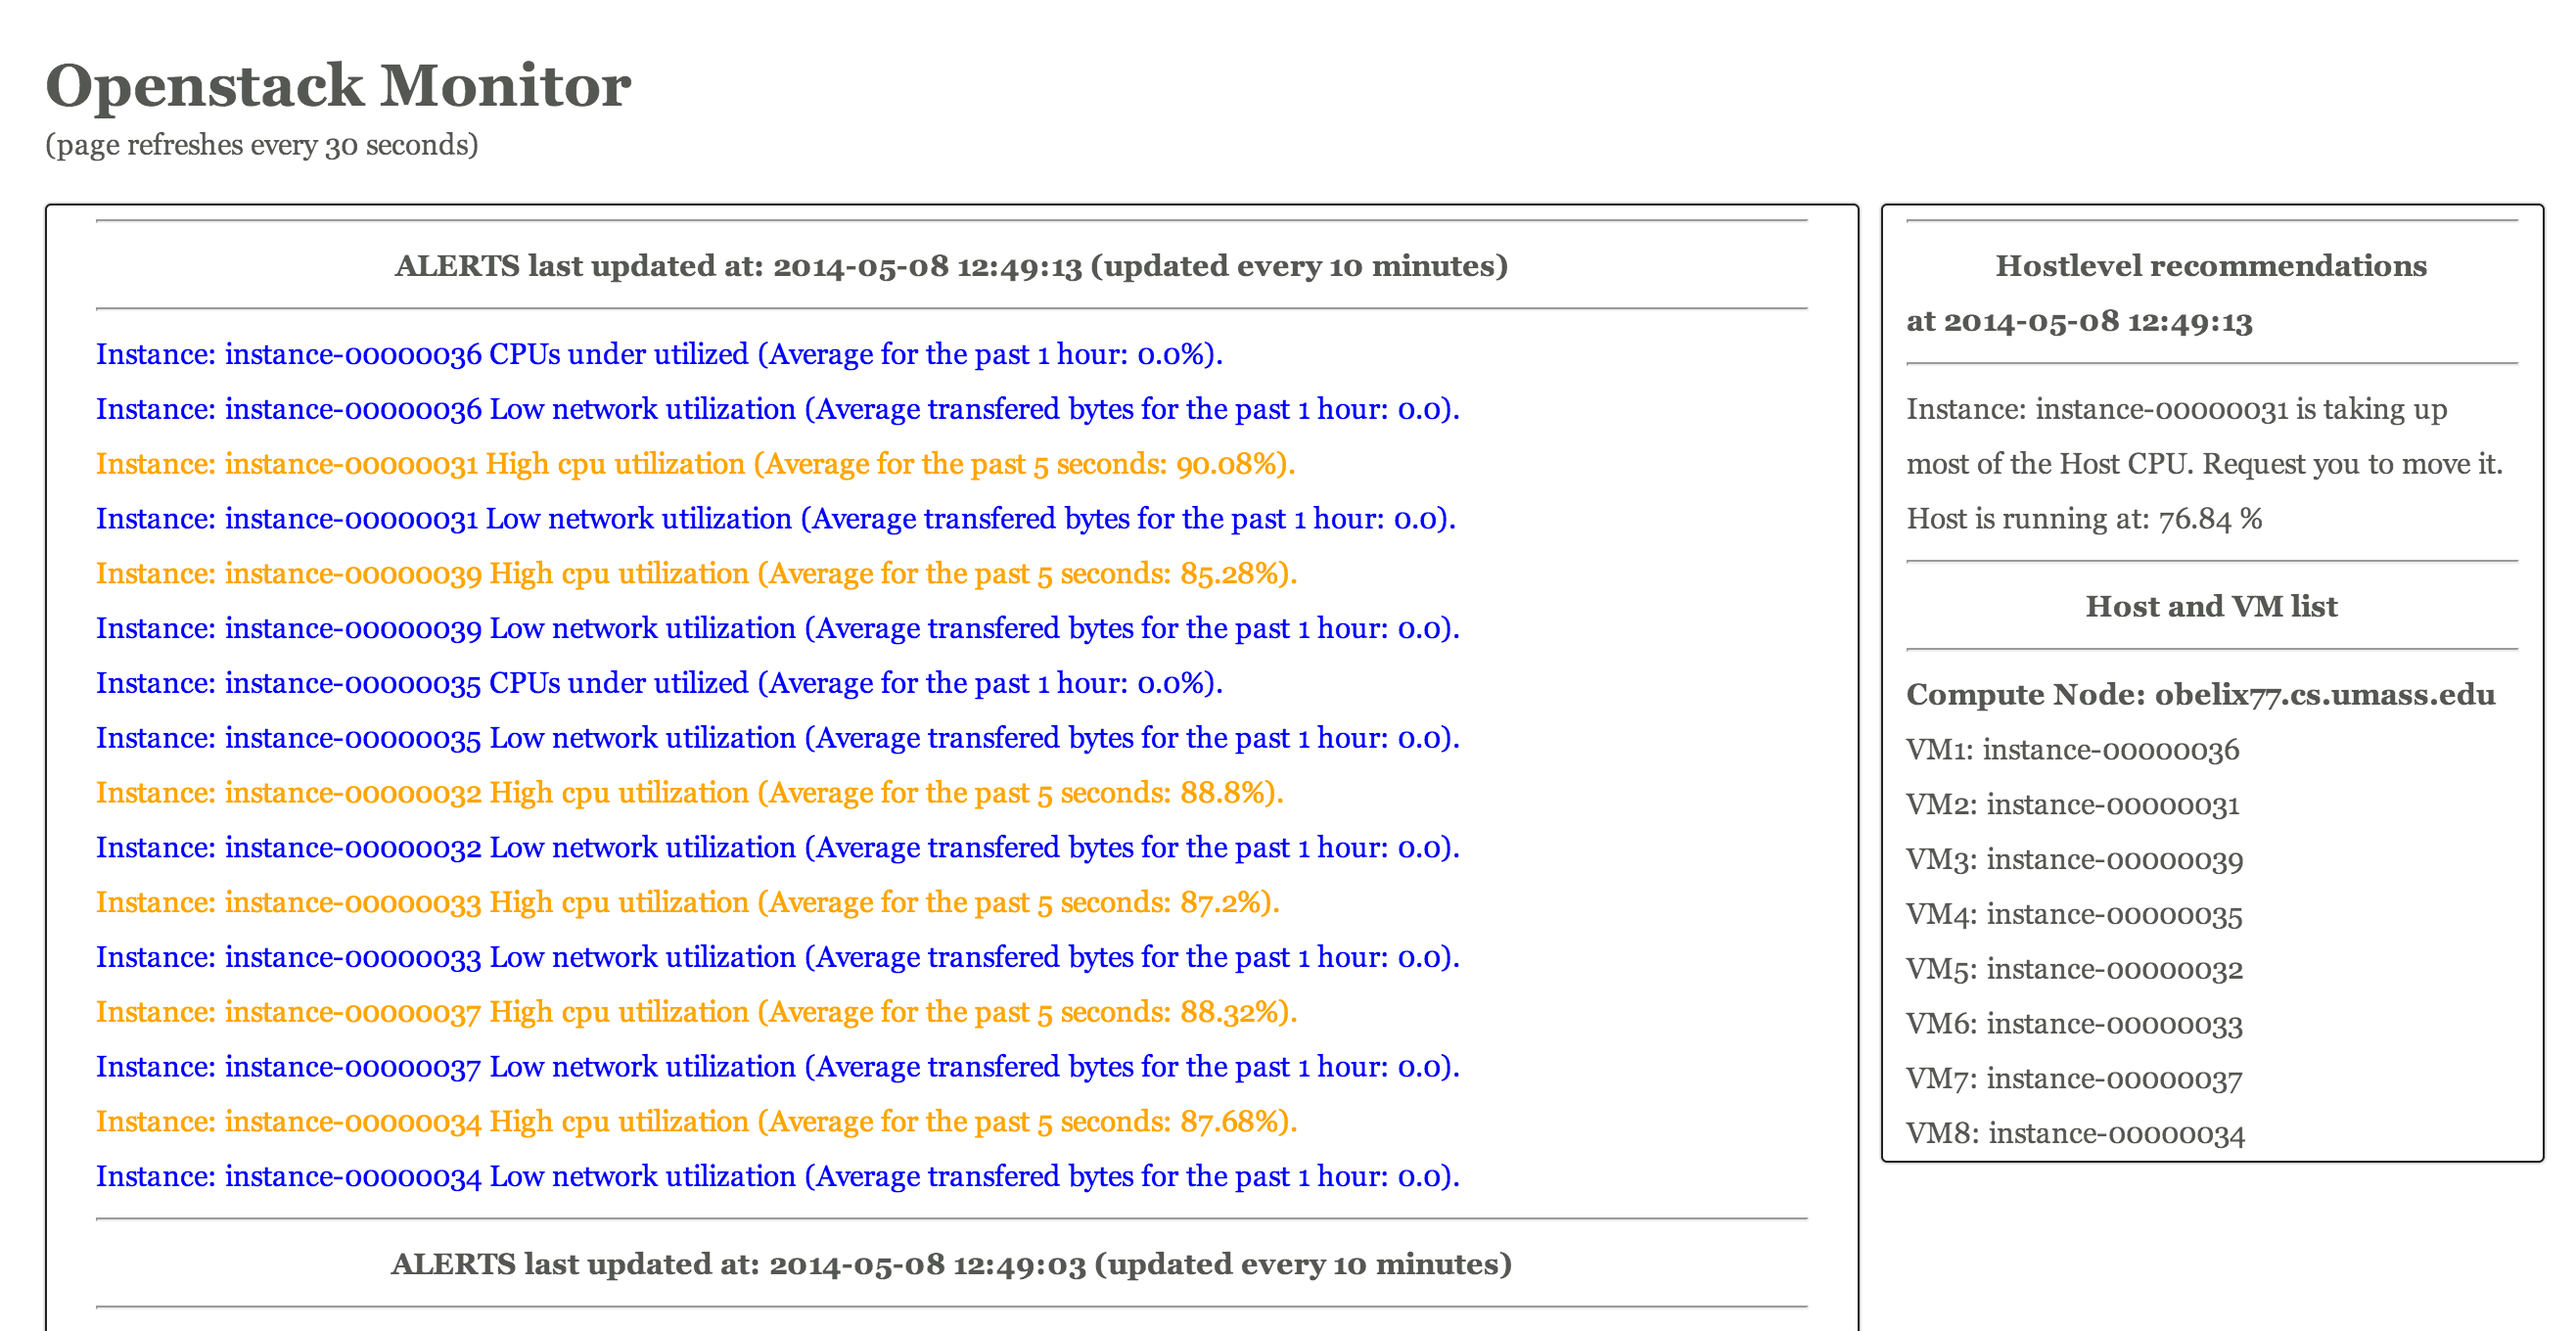
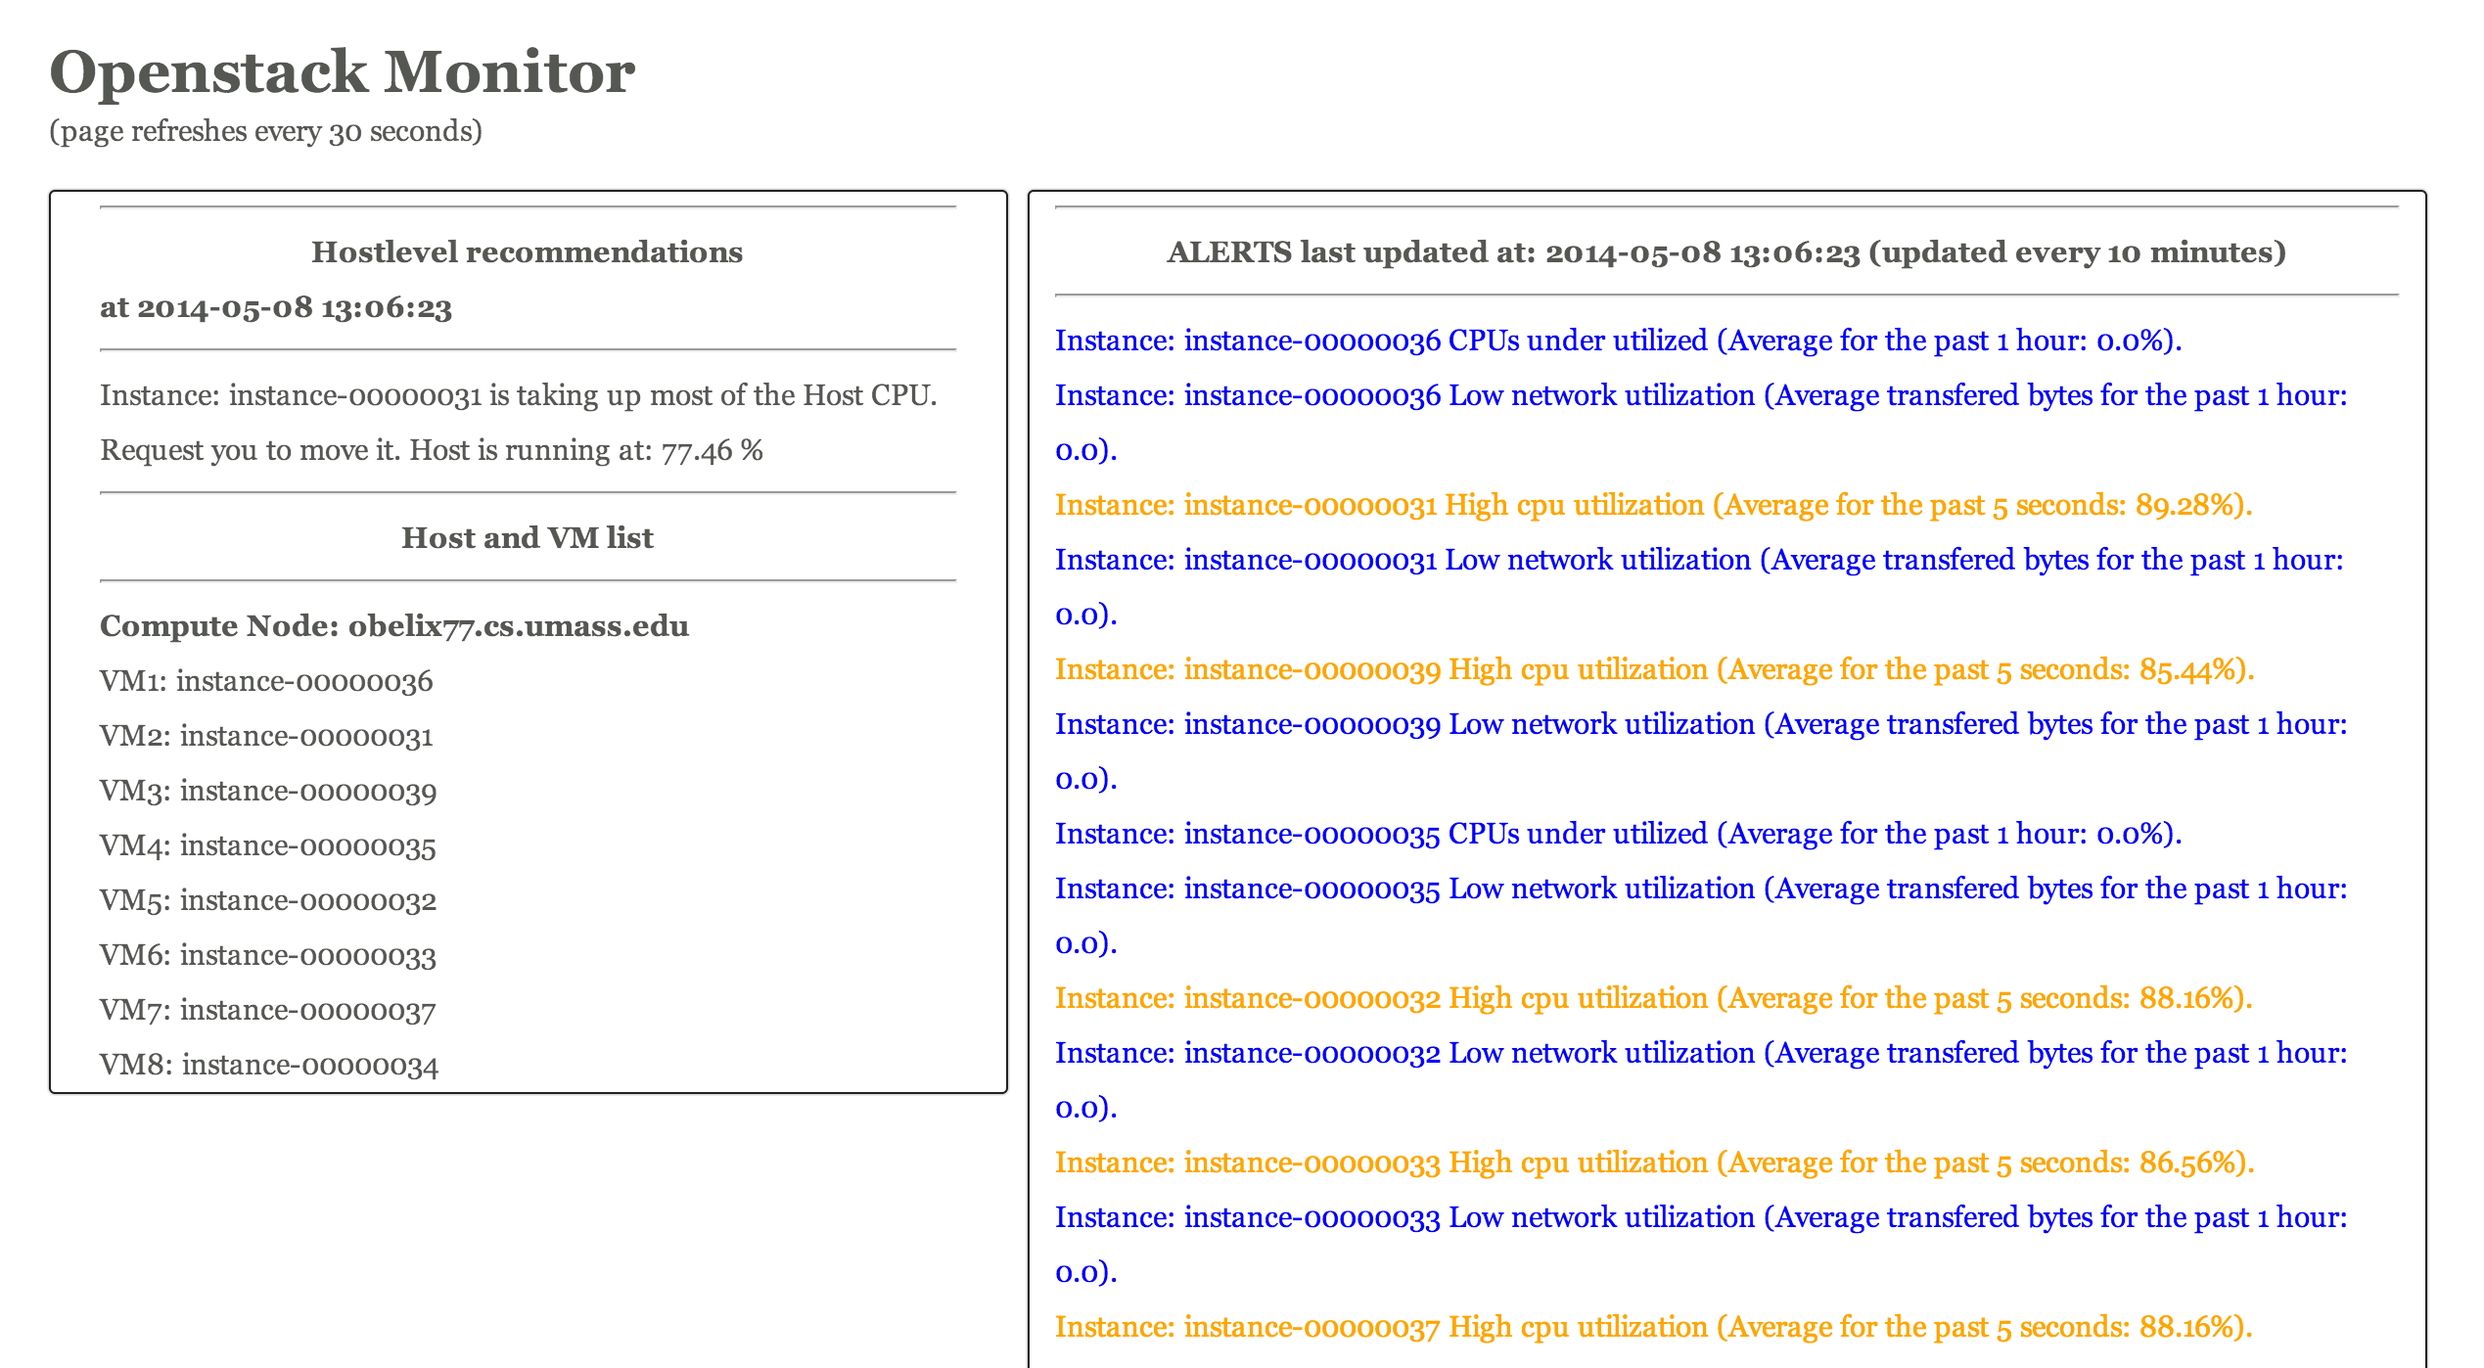
Updated report

Changed region(s): [[0.0, 0.0309, 0.9961, 0.9882]]

diff --git a/report/report.tex b/report/report.tex
@@ -231,6 +231,10 @@ Another daemon has been configured to run indefinitely and it reads the statisti
 \item High: 10000 IOps done, Alert user about high I/O
 \item Low: 50 IOps done, alert user about resource under utilization
 \end{itemize}
+\item Host level statistics
+\begin{itemize}
+\item High CPU utilization: When a host machine is loaded to 60\% CPU the user is recommended to move the VMs out.
+\end{itemize}
 \end{itemize}
 
 Using the values stored in the RRD files if it is found that any of these thresholds have been hit in the past hour that fact is recorded. This daemon spits out such recommendations to JSON files which is in turn fed into the web interface when it gets updated. 
@@ -246,30 +250,39 @@ Recommendations are generated by calculating host level resource utilization and
 	Detecting under provisioned hardware.
 \end{enumerate} 
 \textbf{Normalization of resource utilization}:\\
-Overtime as virtual machines are created and deleted dynamically in a cluster of nodes providing virtual machines, there is a possibility of a scenario where a couple of nodes's resources are completed utilized by virtual machines (VM) and at the same time there are nodes with lesser utilization. In this scenario, it is advisable to move VMs from over loaded nodes to lesser ones. 
-\\\\For example, the following figure shows node N1 and N3 are fully utilized where as N2 is partially loaded. We calculate the possibility of moving some of the VMs in N1 and N3 to N2, if N2 has enough room to accommodate, a recommendation is generated to admin to initiate a move of VMs from N1 $ \rightarrow $ N2 and N3 $ \rightarrow $ N2.
+Over time, as virtual machines are created and deleted dynamically in a cluster of nodes providing virtual machines, there is a possibility of a scenario where a couple of nodes' resources are completely utilized by virtual machines (VM) and at the same time there are nodes with lesser utilization. In this scenario, it is advisable to move VMs from over loaded nodes to lesser ones. 
+\\\\For example, the following figure \ref{norm} shows nodes N1 and N3 are fully utilized where as N2 is partially loaded. We calculate the possibility of moving some of the VMs in N1 and N3 to N2, if N2 has enough room to accommodate, a recommendation is generated to admin to initiate a move of VMs from N1 $ \rightarrow $ N2 and N3 $ \rightarrow $ N2.
 
 \begin{figure}[H]
 	\centering
 	\includegraphics[scale=0.7]{movingvms}
-	\caption{Normalization of resources}
+	\caption{Normalization of resources \label{norm}} 
 \end{figure}
 
 \textbf{Consolidation of resources}:
+\\
+When there are a lot of VMs and a lot of compute nodes, there is always the possibility that at some time the nodes might be lightly loaded. In this case it is advisable to consolidate all of the VMs to fewer compute nodes and shut off all the rest to save resources.
 
+In the following figure \ref{cons}, we can see that the nodes N2 and N3 are lightly loaded, and thus we compute the possibility that we can move the VMs hosted on N2 and N3 to N1 and still work properly and thus we recommend to the admin that the VMs from N2 and N3 can be moved to N1.
 \begin{figure}[H]
 	\centering
 	\includegraphics[scale=0.7]{consolidation}
-	\caption{Consolidation of resources}
+	\caption{Consolidation of resources \label{cons}}
 \end{figure}
-
-\textbf{Under Provisioned Hardware}:
 
 \begin{figure}[H]
 	\centering
 	\includegraphics[scale=0.7]{overutilized}
-	\caption{Under provisioned hardware}
+	\caption{Under provisioned hardware \label{over}}
 \end{figure}
+
+\textbf{Under Provisioned Hardware}:
+\\
+Sometimes nodes that host VMs can't handle the VMs that are on them. The nodes might be under provisioned. In such a scenario it is advisable to create new host machines and migrate the VMs to the newly created compute node. This scenario is captured in the above figure \ref{over}.
+
+We can see that both the nodes N1 and N2 are over-burdened with VMs and thus we recommend that the admin move VM5, VM6 from N1 and VM4 from N2 to a new node N3.
+
+
 
 
 \subsection{Web interface}
@@ -307,7 +320,25 @@ The recommendations/alerts are shown in the web interface as follows
 \textbf{Console output:}
 \fontsize{10}{1.5}
 \begin{verbatim}
-Timestamp: 2014-05-05 18:52:15
+=================================================
+Host-level recommendations at 2014-05-05 18:52:15
+
+
+=================================================
+
+Instance: instance-00000024 is taking up most of the Host CPU. 
+Request you to move it. Host is running at: 75.4 %
+
+
+=======================================================================
+
+
+ALERTS last updated at: 2014-05-05 18:52:15 (updated every 10 minutes)
+
+
+=======================================================================
+
+
 instance-00000024 High cpu utilization (Average for the past 1 hour: 86.12%).
 instance-00000024 Low network utilization (Average transfered bytes for the past 1 hour: 0.0).
 instance-00000022 High cpu utilization (Average for the past 1 hour: 89.94%).
@@ -325,7 +356,7 @@ instance-00000026 Low network utilization (Average transfered bytes for the past
 \end{verbatim}
 
 \normalsize
-The below graphs show that the CPU utilization is constantly high for instances 22 and 24 which is why we see them in the list of recommendations shown above. 
+The below graphs show that the CPU utilization is constantly high for instances 22 and 24 which is why we see them in the list of alerts shown above console log. 
 
 
 \begin{figure}[H]
